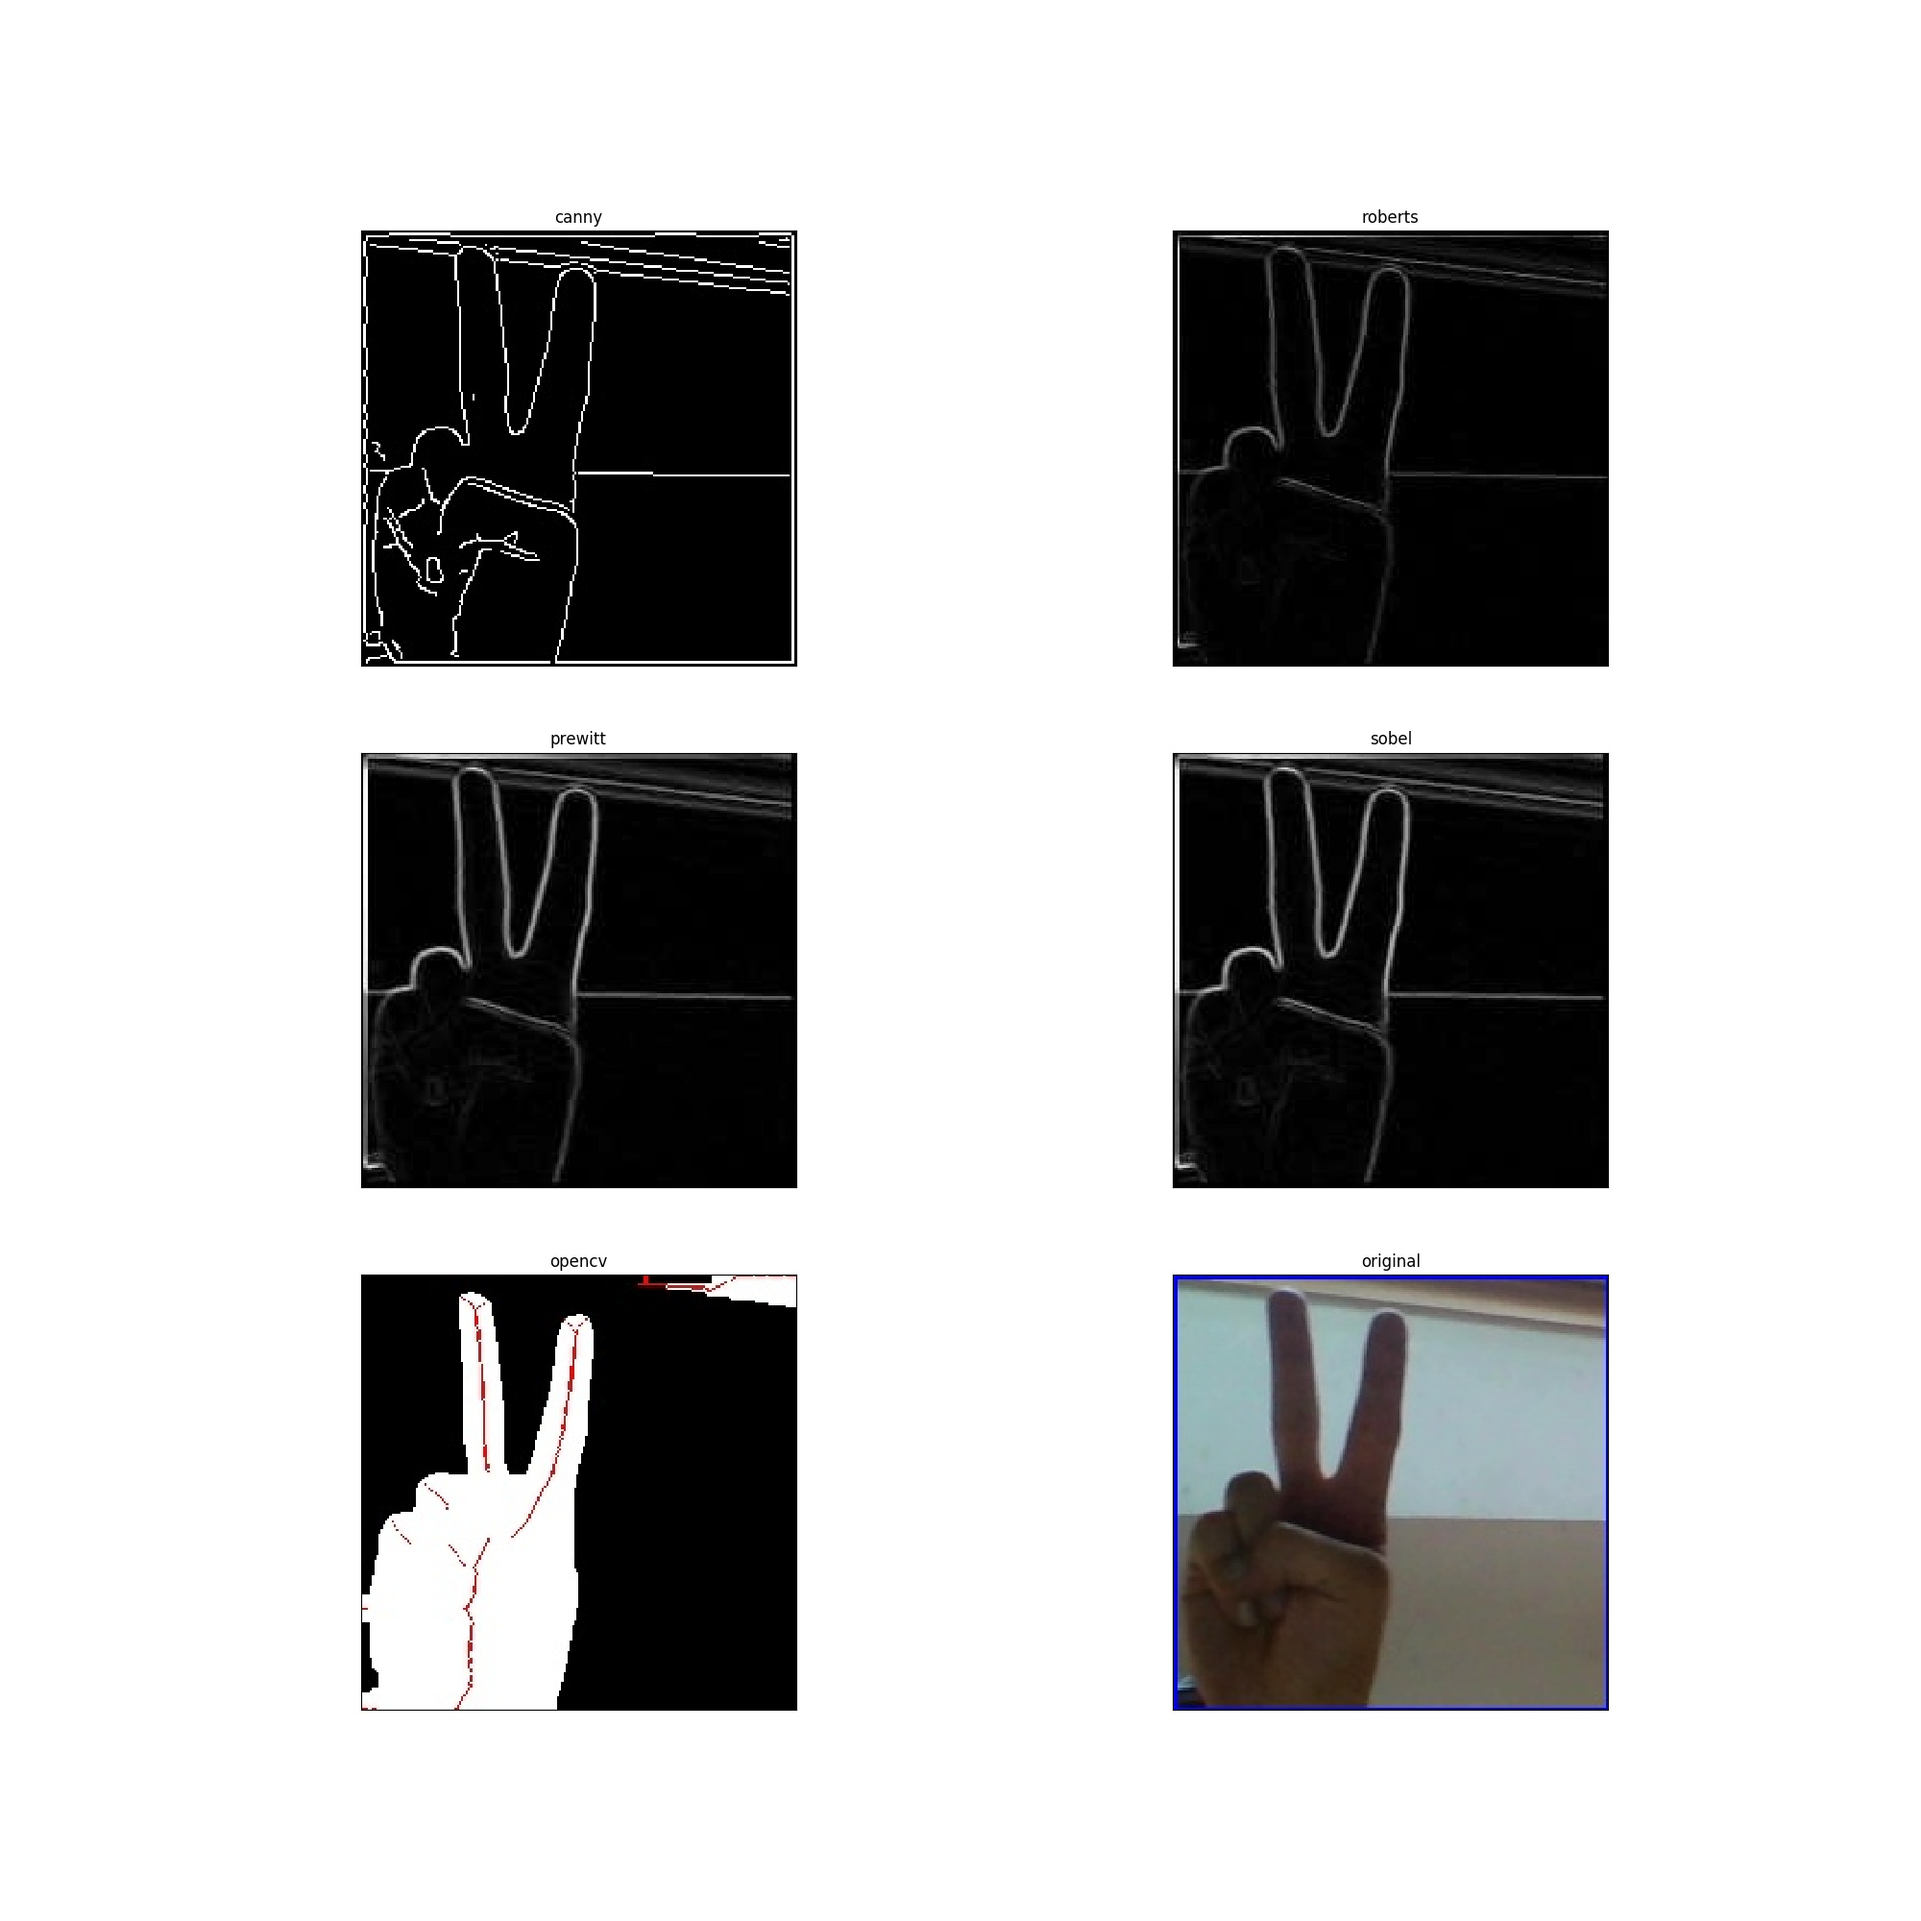
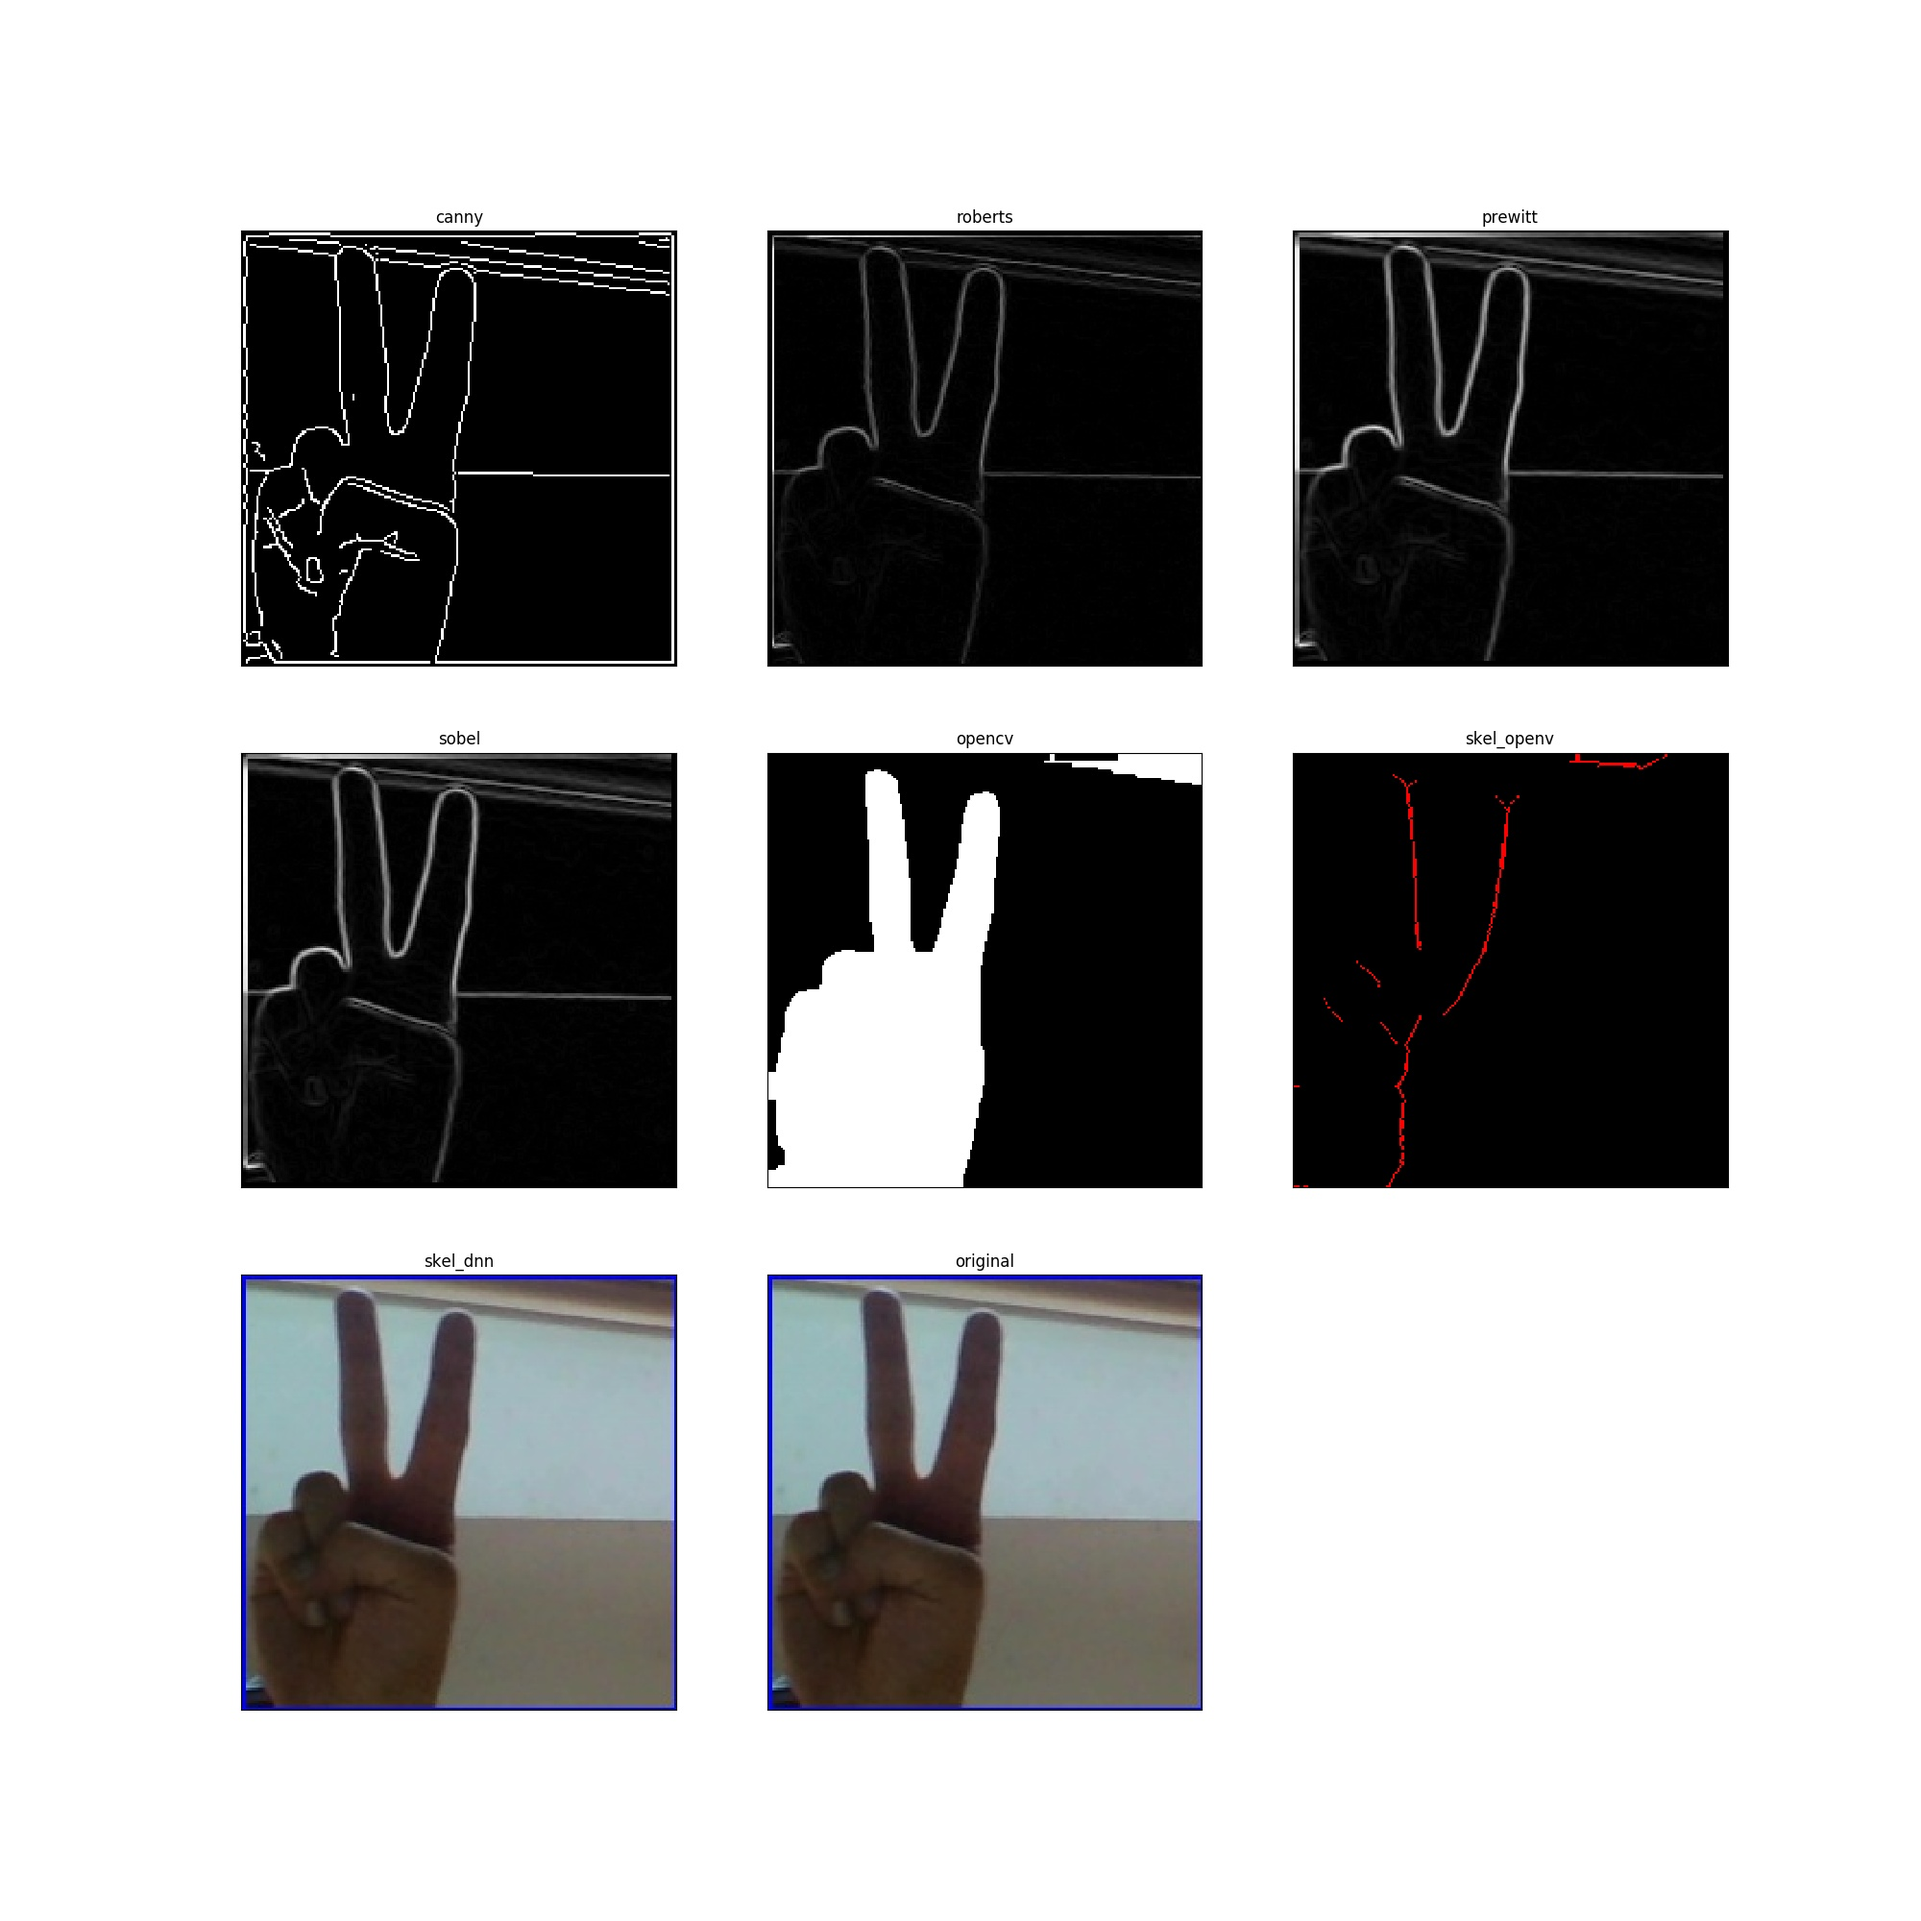
tests

diff --git a/edge/test.py b/edge/test.py
@@ -8,6 +8,7 @@ import edge.canny_filter.canny_edge_detector as ced
 
 from edge.canny_filter.utils.utils import rgb2gray
 from edge.opencv_filter.opencv import opencv, paln_point, skel
+from edge.skelet_dnn.main import skeleton
 from edge.sobel import Sobel
 from edge.prewitt import Prewitt
 from edge.roberts import Roberts
@@ -15,60 +16,70 @@ from edge.roberts import Roberts
 nothing_image_path = "../data/dataset/asl-alphabet/asl_alphabet_test/nothing_test.jpg"
 
 
+def canny_func(frame):
+    img = rgb2gray(frame)
+    detector = ced.cannyEdgeDetector([img], sigma=1.0, kernel_size=5, lowthreshold=0.01, highthreshold=0.07,
+                                     weak_pixel=100)
+    img_final = detector.detect()[0]
+    if img_final.shape[0] == 3:
+        img_final = img_final.transpose(1, 2, 0)
+    gray()
+    return img_final
+
 class MyTestCase(unittest.TestCase):
-    def test_sobel(self):
-        print(f'SOBEL')
-        dataset_path = "../data/dataset/asl-alphabet/asl_alphabet_test"
-        output_path = "sobel"
-        if not os.path.exists(output_path):
-            os.makedirs(output_path)
-        for image in os.listdir(dataset_path):
-            print(f'Processing {image}')
-            out_name = image
-            sobel = Sobel(os.path.join(dataset_path, image))
-            sobel.save_im(os.path.join(output_path, out_name))
+    # def test_sobel(self):
+    #     print(f'SOBEL')
+    #     dataset_path = "../data/dataset/asl-alphabet/asl_alphabet_test"
+    #     output_path = "sobel"
+    #     if not os.path.exists(output_path):
+    #         os.makedirs(output_path)
+    #     for image in os.listdir(dataset_path):
+    #         print(f'Processing {image}')
+    #         out_name = image
+    #         sobel = Sobel(os.path.join(dataset_path, image))
+    #         sobel.save_im(os.path.join(output_path, out_name))
 
-    def test_prewitt(self):
-        print(f'PREWITT')
-        dataset_path = "../data/dataset/asl-alphabet/asl_alphabet_test"
-        output_path = "prewitt"
-        if not os.path.exists(output_path):
-            os.makedirs(output_path)
-        for image in os.listdir(dataset_path):
-            print(f'Processing {image}')
-            out_name = image
-            sobel = Prewitt(os.path.join(dataset_path, image))
-            sobel.save_im(os.path.join(output_path, out_name))
+    # def test_prewitt(self):
+    #     print(f'PREWITT')
+    #     dataset_path = "../data/dataset/asl-alphabet/asl_alphabet_test"
+    #     output_path = "prewitt"
+    #     if not os.path.exists(output_path):
+    #         os.makedirs(output_path)
+    #     for image in os.listdir(dataset_path):
+    #         print(f'Processing {image}')
+    #         out_name = image
+    #         sobel = Prewitt(os.path.join(dataset_path, image))
+    #         sobel.save_im(os.path.join(output_path, out_name))
 
-    def test_roberts(self):
-        print(f'ROBERTS')
-        dataset_path = "../data/dataset/asl-alphabet/asl_alphabet_test"
-        output_path = "roberts"
-        if not os.path.exists(output_path):
-            os.makedirs(output_path)
-        for image in os.listdir(dataset_path):
-            print(f'Processing {image}')
-            out_name = image
-            sobel = Roberts(os.path.join(dataset_path, image))
-            sobel.save_im(os.path.join(output_path, out_name))
+    # def test_roberts(self):
+    #     print(f'ROBERTS')
+    #     dataset_path = "../data/dataset/asl-alphabet/asl_alphabet_test"
+    #     output_path = "roberts"
+    #     if not os.path.exists(output_path):
+    #         os.makedirs(output_path)
+    #     for image in os.listdir(dataset_path):
+    #         print(f'Processing {image}')
+    #         out_name = image
+    #         sobel = Roberts(os.path.join(dataset_path, image))
+    #         sobel.save_im(os.path.join(output_path, out_name))
 
-    def test_canny(self):
-        print("CANNY")
-        dataset_path = "../data/dataset/asl-alphabet/asl_alphabet_test"
-        output_path = "canny"
-        if not os.path.exists(output_path):
-            os.makedirs(output_path)
-        for image in os.listdir(dataset_path):
-            print(f'Processing {image}')
-            img = mpimg.imread(os.path.join(dataset_path, image))
-            img = rgb2gray(img)
-            detector = ced.cannyEdgeDetector([img], sigma=1.0, kernel_size=5, lowthreshold=0.01, highthreshold=0.07,
-                                             weak_pixel=100)
-            img_final = detector.detect()[0]
-            if img_final.shape[0] == 3:
-                img_final = img_final.transpose(1, 2, 0)
-            gray()
-            imsave(os.path.join(output_path, image), img_final)
+    # def test_canny(self):
+    #     print("CANNY")
+    #     dataset_path = "../data/dataset/asl-alphabet/asl_alphabet_test"
+    #     output_path = "canny"
+    #     if not os.path.exists(output_path):
+    #         os.makedirs(output_path)
+    #     for image in os.listdir(dataset_path):
+    #         print(f'Processing {image}')
+    #         img = mpimg.imread(os.path.join(dataset_path, image))
+    #         img = rgb2gray(img)
+    #         detector = ced.cannyEdgeDetector([img], sigma=1.0, kernel_size=5, lowthreshold=0.01, highthreshold=0.07,
+    #                                          weak_pixel=100)
+    #         img_final = detector.detect()[0]
+    #         if img_final.shape[0] == 3:
+    #             img_final = img_final.transpose(1, 2, 0)
+    #         gray()
+    #         imsave(os.path.join(output_path, image), img_final)
 
     def test_opencv(self):
         print("OPENCV")
@@ -97,23 +108,29 @@ class MyTestCase(unittest.TestCase):
         for image in os.listdir(dataset_path):
             print(f'Processing {image}')
             orig = mpimg.imread(os.path.join(dataset_path, image))
-            canny = mpimg.imread(os.path.join("canny", image))
-            roberts = mpimg.imread(os.path.join("roberts", image))
-            prewitt = mpimg.imread(os.path.join("prewitt", image))
-            sobel = mpimg.imread(os.path.join("sobel", image))
-            openc = mpimg.imread(os.path.join("opencv", image))
+            canny = canny_func(orig)
+            roberts = Roberts(os.path.join(dataset_path, image))
+            prewitt = Prewitt(os.path.join(dataset_path, image))
+            sobel = Sobel(os.path.join(dataset_path, image))
+            openc = opencv(orig)
+            skek_opencv = skel(openc.copy())
+            skel_dnn = skeleton(orig.copy())
             figure(figsize=(20, 20))
-            subplot(3, 2, 1, title="canny", xticks=[], yticks=[])
+            subplot(3, 3, 1, title="canny", xticks=[], yticks=[])
             imshow(canny, "gray")
-            subplot(3, 2, 2, title="roberts", xticks=[], yticks=[])
-            imshow(roberts, "gray")
-            subplot(3, 2, 3, title="prewitt", xticks=[], yticks=[])
-            imshow(prewitt, "gray")
-            subplot(3, 2, 4, title="sobel", xticks=[], yticks=[])
-            imshow(sobel, "gray")
-            subplot(3, 2, 5, title="opencv", xticks=[], yticks=[])
+            subplot(3, 3, 2, title="roberts", xticks=[], yticks=[])
+            imshow(roberts.sobelIm, "gray")
+            subplot(3, 3, 3, title="prewitt", xticks=[], yticks=[])
+            imshow(prewitt.prewittIm, "gray")
+            subplot(3, 3, 4, title="sobel", xticks=[], yticks=[])
+            imshow(sobel.sobelIm, "gray")
+            subplot(3, 3, 5, title="opencv", xticks=[], yticks=[])
             imshow(openc, "gray")
-            subplot(3, 2, 6, title="original", xticks=[], yticks=[])
+            subplot(3, 3, 6, title="skel_openv", xticks=[], yticks=[])
+            imshow(skek_opencv)
+            subplot(3, 3, 7, title="skel_dnn", xticks=[], yticks=[])
+            imshow(skel_dnn)
+            subplot(3, 3, 8, title="original", xticks=[], yticks=[])
             imshow(orig)
             savefig(os.path.join(output_path, image))
 

diff --git a/edge/skelet_dnn/main.py b/edge/skelet_dnn/main.py
@@ -2,8 +2,8 @@ from __future__ import division
 import cv2
 import numpy as np
 
-protoFile = "hand/pose_deploy.prototxt"
-weightsFile = "hand/pose_iter_102000.caffemodel"
+protoFile = "skelet_dnn/hand/pose_deploy.prototxt"
+weightsFile = "skelet_dnn/hand/pose_iter_102000.caffemodel"
 nPoints = 22
 POSE_PAIRS = [[0, 1], [1, 2], [2, 3], [3, 4], [0, 5], [5, 6], [6, 7], [7, 8], [0, 9], [9, 10], [10, 11], [11, 12],
               [0, 13], [13, 14], [14, 15], [15, 16], [0, 17], [17, 18], [18, 19], [19, 20]]
